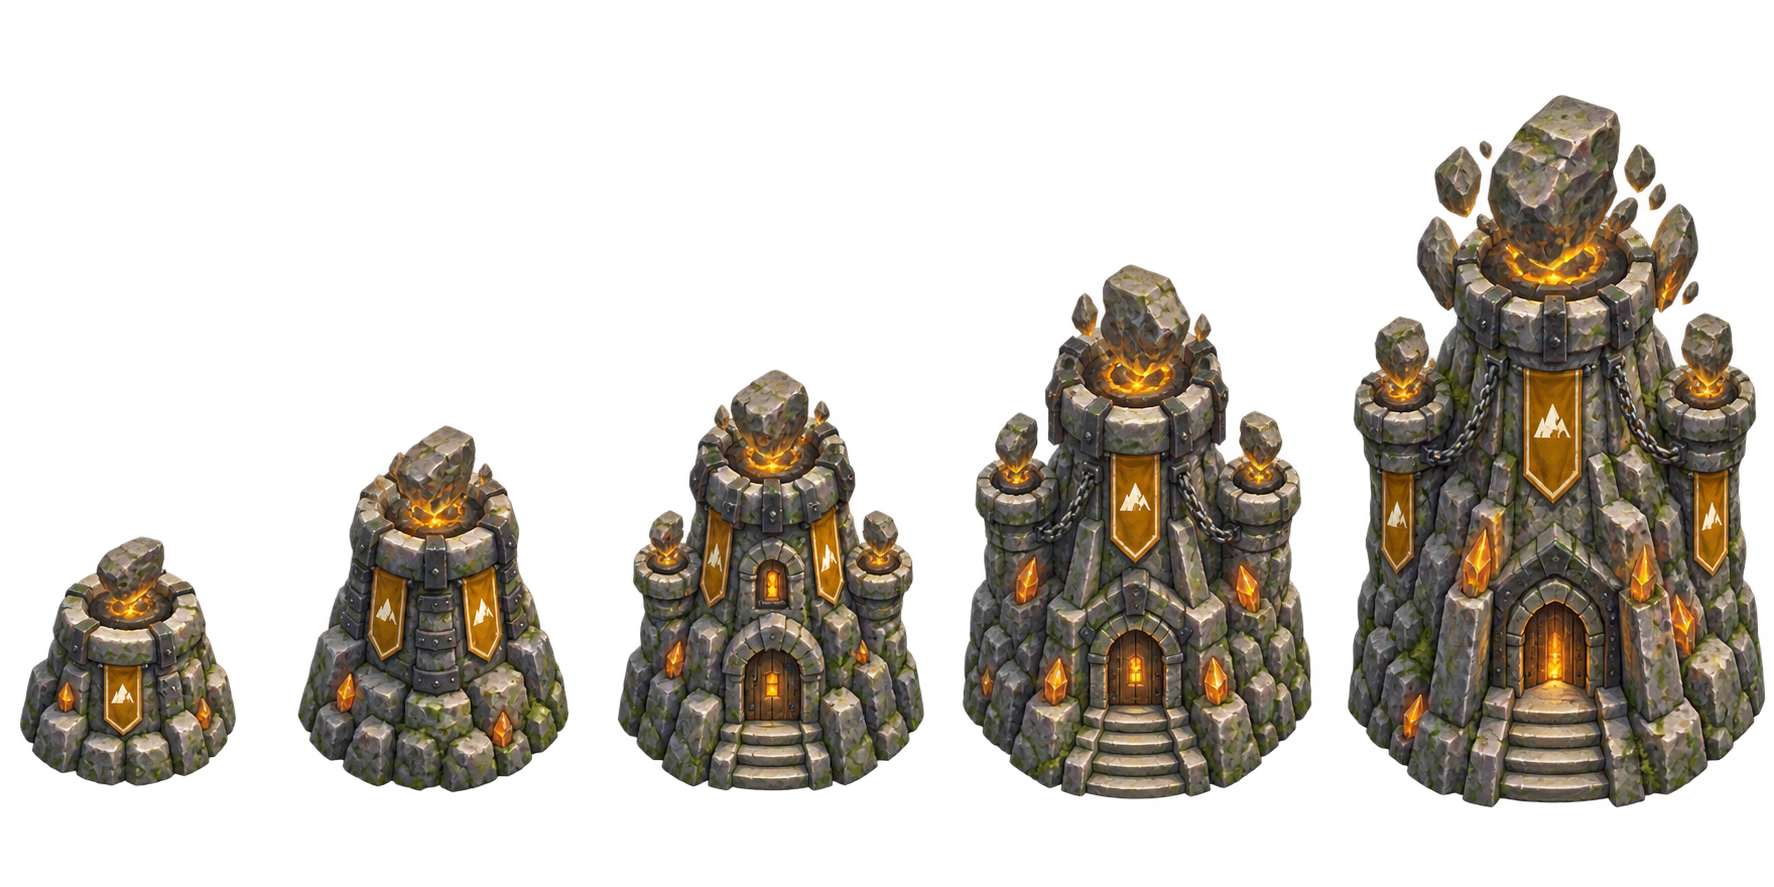
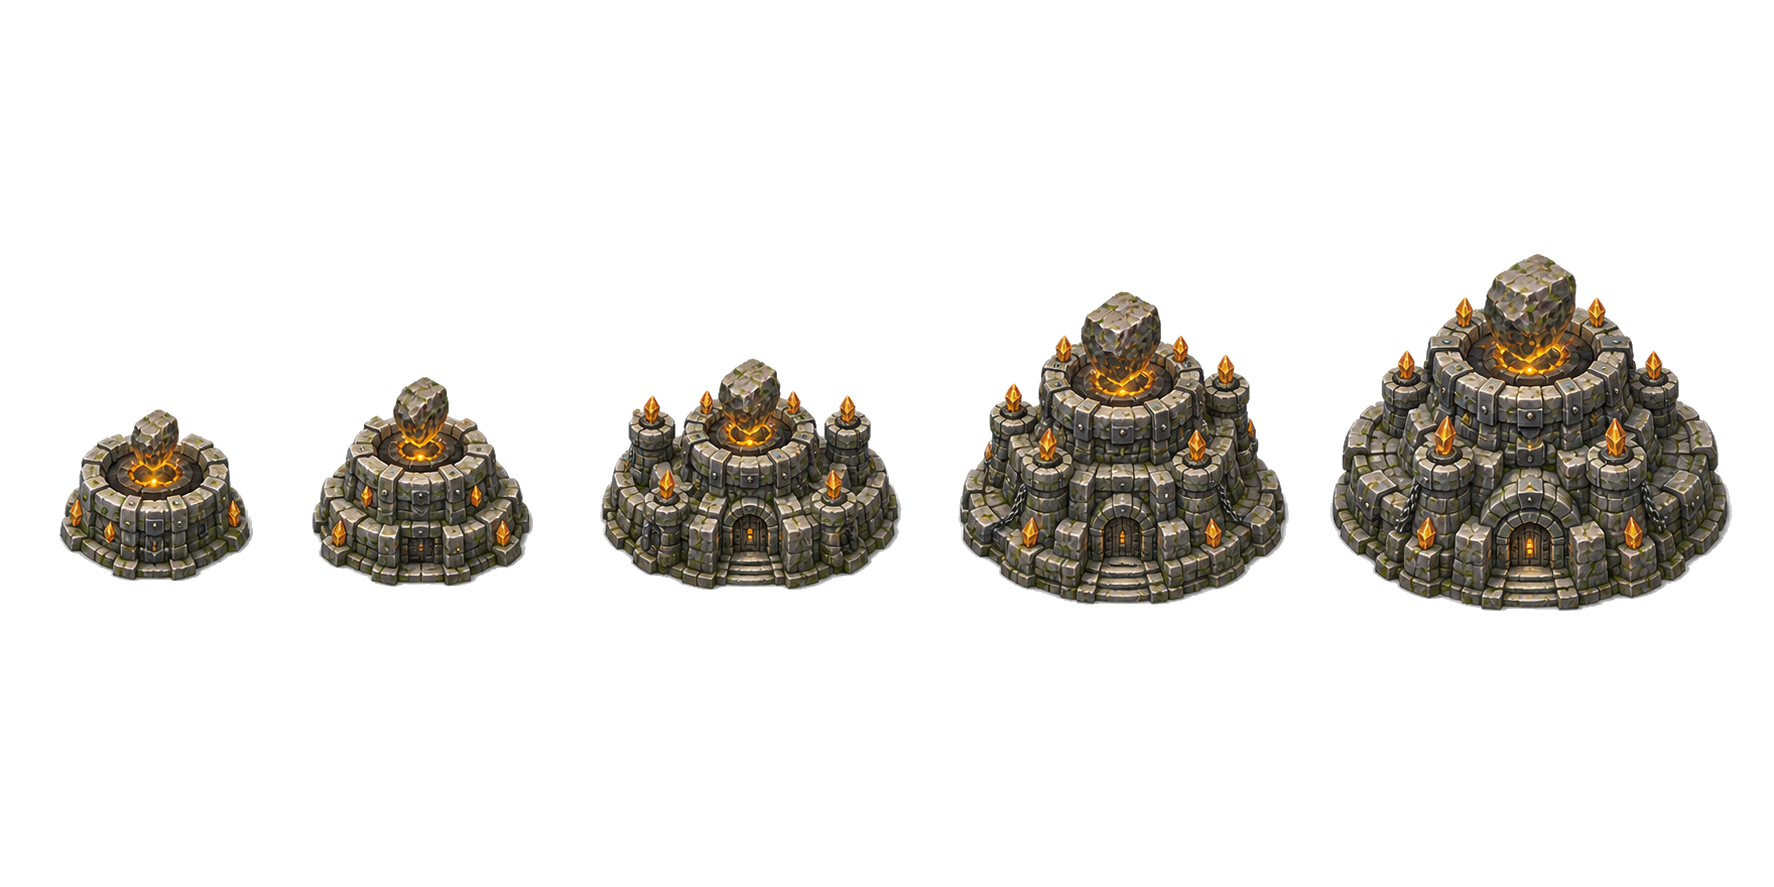
Redesign element towers with shared fortress silhouettes

diff --git a/godottowerdefense/docs/tower-art-prompt.md b/godottowerdefense/docs/tower-art-prompt.md
@@ -1,7 +1,9 @@
 # Generating a tower art sheet
 
 The six element towers were painted one set at a time, each from a single generated sheet of
-five tiers. This file is the recipe, kept because fifteen dual towers still draw the code
+five tiers. The first pass used tall, element-specific silhouettes; after the Water redesign
+all six were moved to the same broad, ground-hugging fortress language so they sit naturally
+on the board. This file is the recipe, kept because fifteen dual towers still draw the code
 art and will need it.
 
 The pipeline around it is in [CLAUDE.md](../../CLAUDE.md) ("Painted tower set"); this file is
@@ -49,8 +51,8 @@ MATCH THE REFERENCE ON:
 - Mass. A building of the same settlement as that keep, sitting IN the terrain.
 
 The tower itself: <one paragraph. Masonry, palette, what sits in the basin at the top, the
-banner sigil, the trim metal, the crystals. Name the SHAPE explicitly — see the silhouette
-table below.>
+banner sigil, the trim metal, the crystals. Keep the element identity in those materials and
+effects; the structural shape follows the shared fortress progression below.>
 
 <A CONTRAST OR CATEGORY NOTE, if this element has one — see "Per-element traps".>
 
@@ -59,17 +61,19 @@ the top QUARTER of the tower's height and must read as <contained in its basin>,
 <column / geyser / cloud / beam>. The building is the subject; the element is carried down
 the rest of it by <cracks / channels / roots / gilding>.
 
-Tier progression, growing in HEIGHT more than width, each tier the same building enlarged:
-1 <a low drum, one banner, a small effect> 2 <taller, stepped base, second banner>
-3 <two stages, doorway, side basins, lit window, first crystals> 4 <a fortress: crown,
-chains, flanking turrets, broad stair> 5 <the grandest: larger effect, full-height detail,
-a lit archway>
+Tier progression, broad and ground-hugging like the Water set, growing mainly in WIDTH,
+layers and structural complexity rather than becoming a tall column:
+1 <a low circular ring with one contained effect> 2 <a wider stepped bastion with channels>
+3 <a broad central keep with two low side basins or pylons> 4 <a compact radial citadel with
+flanking turrets and a broad stair> 5 <the grandest layered fortress, still squat, with a
+larger contained effect and a lit archway>
 
 CRITICAL REQUIREMENTS (the reference image cannot show these — follow them exactly):
 - Transparent background (alpha), no ground plane, no scenery, no backdrop, no grass under
   the towers.
 - NO drop shadow and no cast shadow — the game draws its own.
-- PROPORTION LIMIT: each tower's total width must be between <lo> and <hi> of its height.
+- PROPORTION LIMIT: each tower's total width must be roughly 0.95–1.55 of its height. The
+  building should feel broad, but must not become a horizontal platform.
 - THE BASE MUST BE SYMMETRICAL. Rubble, steps and ornament at the foot must hug the tower
   evenly on both sides and must not stick out sideways below it — the game hangs the sprite
   from the middle of its lowest pixels.
@@ -106,21 +110,20 @@ Two more that are about the board rather than the pipeline:
 - **60px gaps.** `cut_sprites.py` splits the sheet on empty columns (`MIN_RUN`). Towers that
   touch come out as one sprite.
 
-## Silhouette is a design channel
+## Shared silhouette, distinct identity
 
-Sprites are scaled by **height**, so width is free to carry meaning, and the six sets use it.
-Ask for the band; it is what the generator actually obeys.
+The Water redesign established the shape that works on the painted board: a low circular
+ring at tier 1, then wider stepped masonry, side structures, and finally a compact radial
+fortress. The other five element sets now use that same progression instead of growing into
+tall narrow columns. This shared mass makes the roster feel as if one culture built it and
+keeps the sprites visually planted in the terrain.
 
-| Element | Shape asked for | Why | Band asked | Drawn width |
-|---|---|---|---|---|
-| Light | slender spire | longest range in the game | 0.42–0.55 | 106–134px |
-| Darkness | heavy obelisk | nearly as long a reach, slowest and heaviest blow | 0.45–0.55 | 144–167px |
-| Nature | overgrown keep | mid range, poison | 0.55–0.70 | 147–170px |
-| Water | waterworks | mid range, fastest cadence | 0.55–0.70 | 160–169px |
-| Earth | quarried bastion | short range, splash, heaviest presence | 0.62–0.75 | 162–176px |
-| Fire | squat forge | shortest range, fast cadence | 0.60–0.75 | 176–195px |
-
-A tower's role should be legible before its range ring is drawn.
+Element recognition now comes from materials and contained effects rather than radically
+different height-to-width bands: Fire is dark forge stone and orange flame, Earth is cool
+quarried granite and amber crystal, Nature is roots and dark ivy, Light is pale stone with
+slate accents and a restrained gold core, Darkness is charcoal masonry with violet cracks,
+and Water is gray-tan waterworks with blue channels. Preserve those contrasts when making
+duals; do not return to the old spire/obelisk silhouettes.
 
 ## Per-element traps
 

diff --git a/godottowerdefense/README.md b/godottowerdefense/README.md
@@ -459,10 +459,10 @@ in pixels.
 ## 6. Where the art comes from
 
 The project began with **no asset files at all** — every visual drawn in `_draw()`, every
-sound synthesized at startup. That still holds for the audio and for most of the screen.
-It no longer holds for the board and for the fire tower, which are painted images, and the
-two kinds of art are meant to sit side by side while the repaint proceeds element by
-element.
+sound synthesized at startup. That still holds for the audio and part of the screen, while
+the board, all six element towers, the creep roster and selected effects are now painted
+images. The painted and code-drawn art paths still coexist so unfinished content can fall
+back safely.
 
 **Painted** (`assets/art/`, the project's only bitmap assets — `icon.svg` aside):
 - **The board**: `board_source.png`, 1672×941. `map.gd` stretches it to `Game.WORLD_SIZE`
@@ -474,11 +474,11 @@ element.
 - **All six element towers**, five tiers each: `towers/<element>_1..5.png`, cut from one
   generated sheet (`_source_<element>.png`) by `tools/cut_sprites.py` at `max_height` 220,
   which puts the tiers at ~2x their drawn size.
-  Because the sprite is scaled by HEIGHT, an element's silhouette is free to say something:
-  light reaches furthest in the game and is a slender spire at 106-134px wide, fire is the
-  shortest-ranged and is a squat forge at 176-195, and the rest sit between them — darkness
-  144-167, nature 147-170, water 160-169, earth 162-176. A tower's role is meant to be
-  legible before its range ring is drawn.
+  The Water redesign established the shared silhouette for the roster: low circular early
+  tiers grow mainly through wider stepped masonry, side structures and layered radial
+  fortresses instead of becoming tall narrow columns. Element identity comes from masonry,
+  banners and restrained contained effects, which keeps the six sets architecturally
+  coherent with the board while preserving their matchup colours.
   Sets are generated five-at-a-time on
   purpose — asked for one at a time, the tiers come back looking unrelated. The tool splits
   the sheet on its empty columns, trims each sprite to its alpha bounds, and box-downscales
